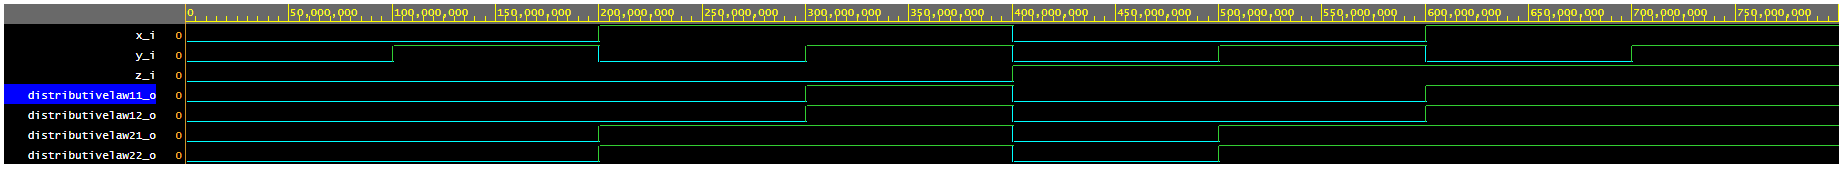
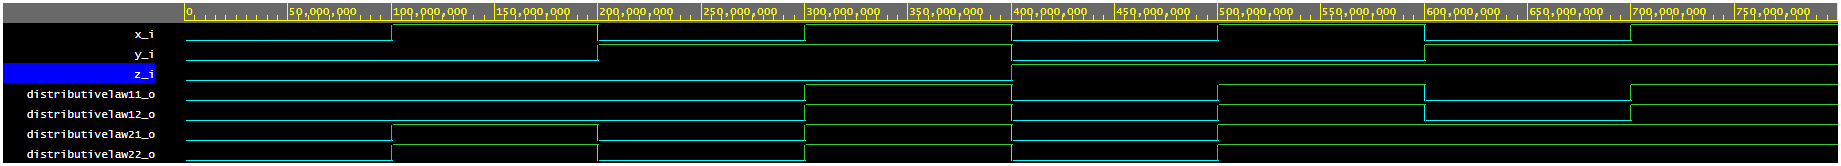
sdfgdfgfxd

diff --git a/Labs/01-gates/README.md b/Labs/01-gates/README.md
@@ -65,12 +65,12 @@ Výstup z programu edaplayground:
 | **z** | **y** |**x** | **DL11(x,y,z)** | **DL12(x,y,z)** | **DL21(x,y,z)** | **DL22(x,y,z)** |
 | :-: | :-: | :-: | :-: | :-: | :-: | :-: |
 | 0 | 0 | 0 | 0 | 0 | 0 | 0 |
-| 0 | 0 | 1 | 0 | 0 | 0 | 0 |
-| 0 | 1 | 0 | 0 | 0 | 1 | 1 |
+| 0 | 0 | 1 | 0 | 0 | 1 | 1 |
+| 0 | 1 | 0 | 0 | 0 | 0 | 0 |
 | 0 | 1 | 1 | 1 | 1 | 1 | 1 |
 | 1 | 0 | 0 | 0 | 0 | 0 | 0 |
-| 1 | 0 | 1 | 0 | 0 | 1 | 1 |
-| 1 | 1 | 0 | 1 | 1 | 1 | 1 |
+| 1 | 0 | 1 | 1 | 1 | 1 | 1 |
+| 1 | 1 | 0 | 0 | 0 | 1 | 1 |
 | 1 | 1 | 1 | 1 | 1 | 1 | 1 |
 
 Obrázok výstupu:
